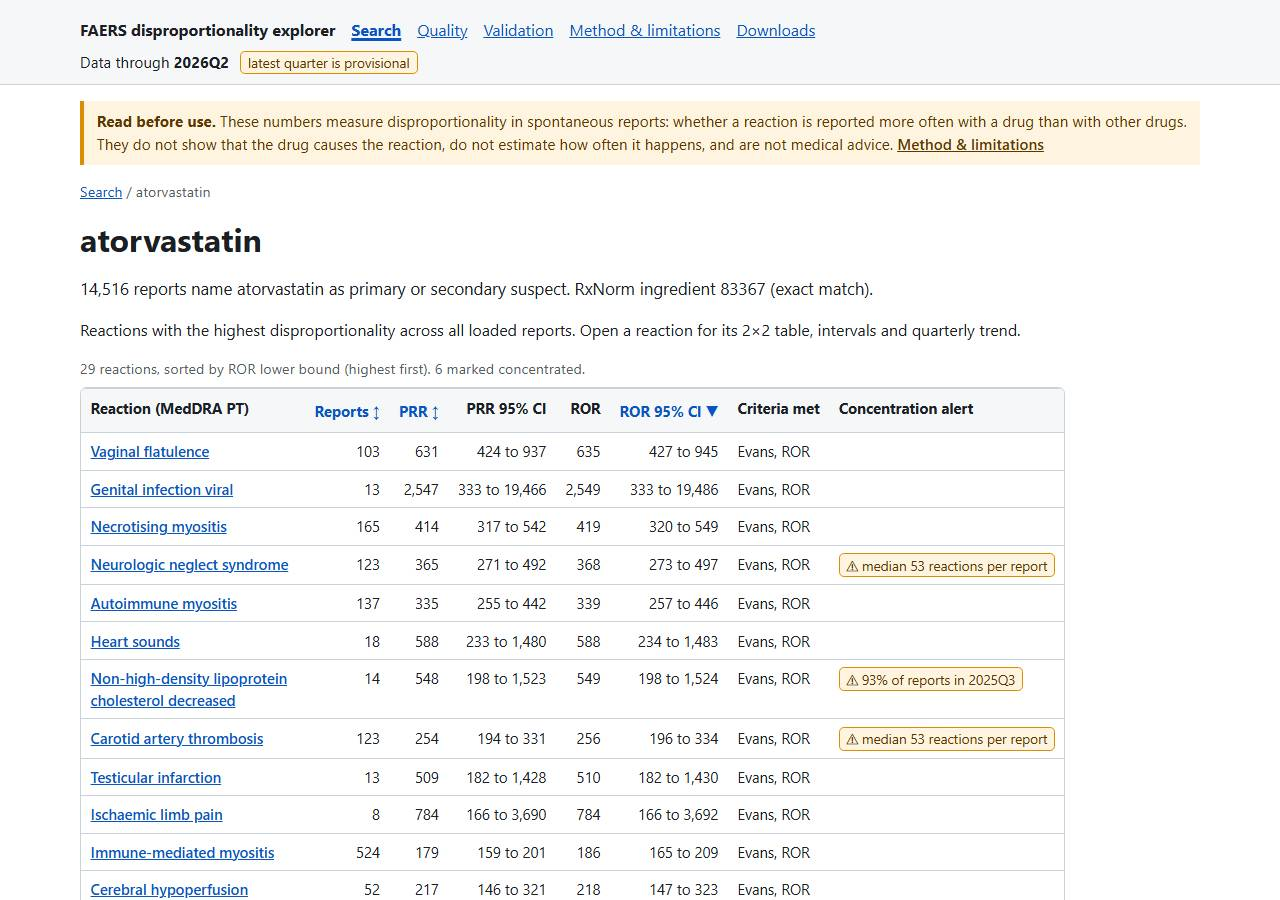
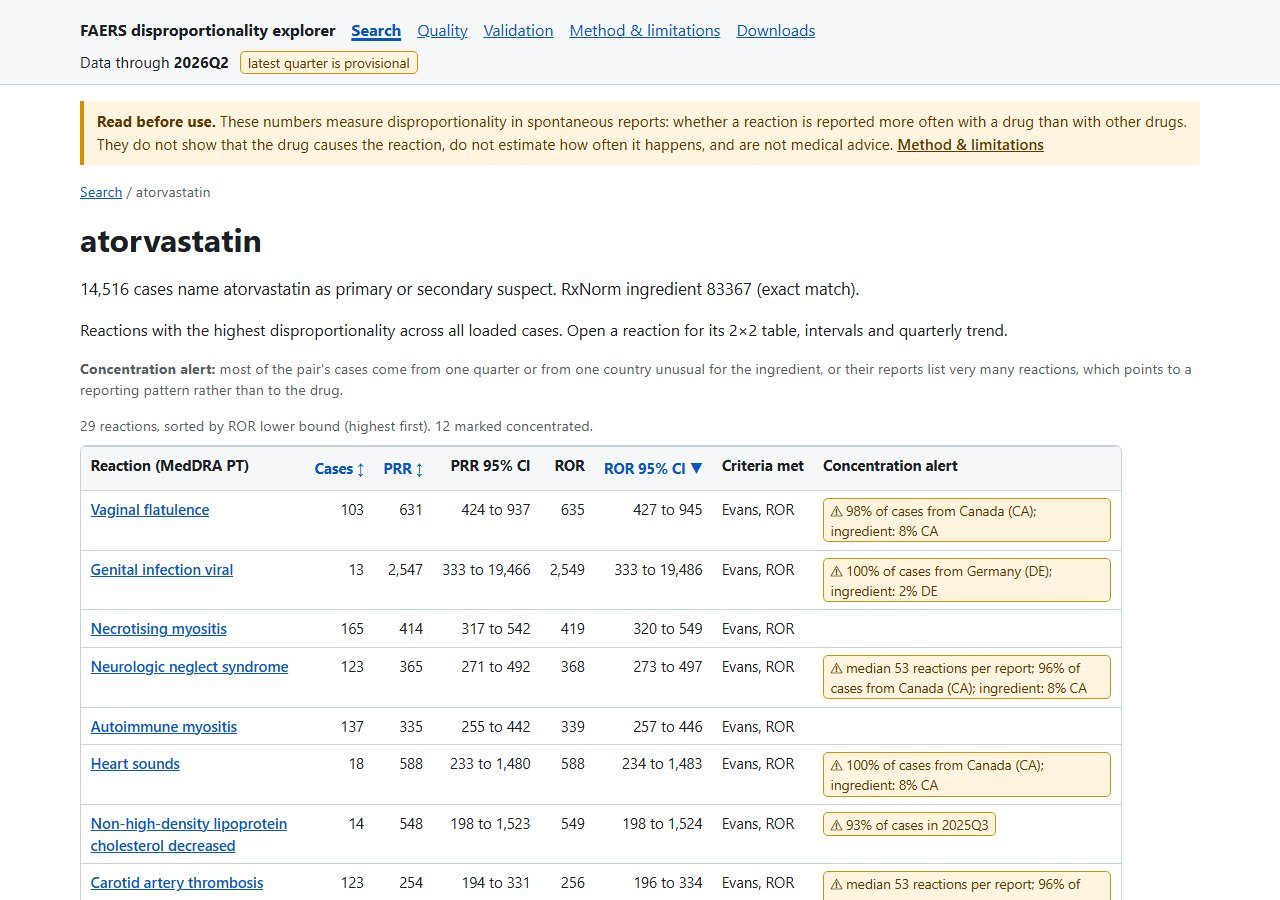
docs: retake README screenshots from the current export

diff --git a/README.md b/README.md
@@ -11,9 +11,11 @@ results with their data-quality metrics.
 
 **Explorer:** <https://yagocalomino.github.io/faers-pipeline/> (static site, no backend).
 
-| Search | Ingredient page | Pair detail on a phone |
+| Search | Ingredient page (atorvastatin) | Pair detail on a phone |
 |---|---|---|
-| ![Search page of the explorer](docs/img/readme-search.jpg) | ![Ingredient page with concentration alerts](docs/img/readme-ingredient.jpg) | ![Pair detail and quarterly trend on a phone](docs/img/readme-pair-mobile.jpg) |
+| ![Search page of the explorer, with the ingredients that have the most cases](docs/img/readme-search.jpg) | ![Atorvastatin page: reactions with cases, PRR, ROR and concentration alerts by country and quarter](docs/img/readme-ingredient.jpg) | ![Atorvastatin and rhabdomyolysis on a phone: where the cases come from and cases per quarter](docs/img/readme-pair-mobile.jpg) |
+
+On the atorvastatin page, the first rows are reporting clusters; the concentration alert marks them.
 
 ## Architecture
 
